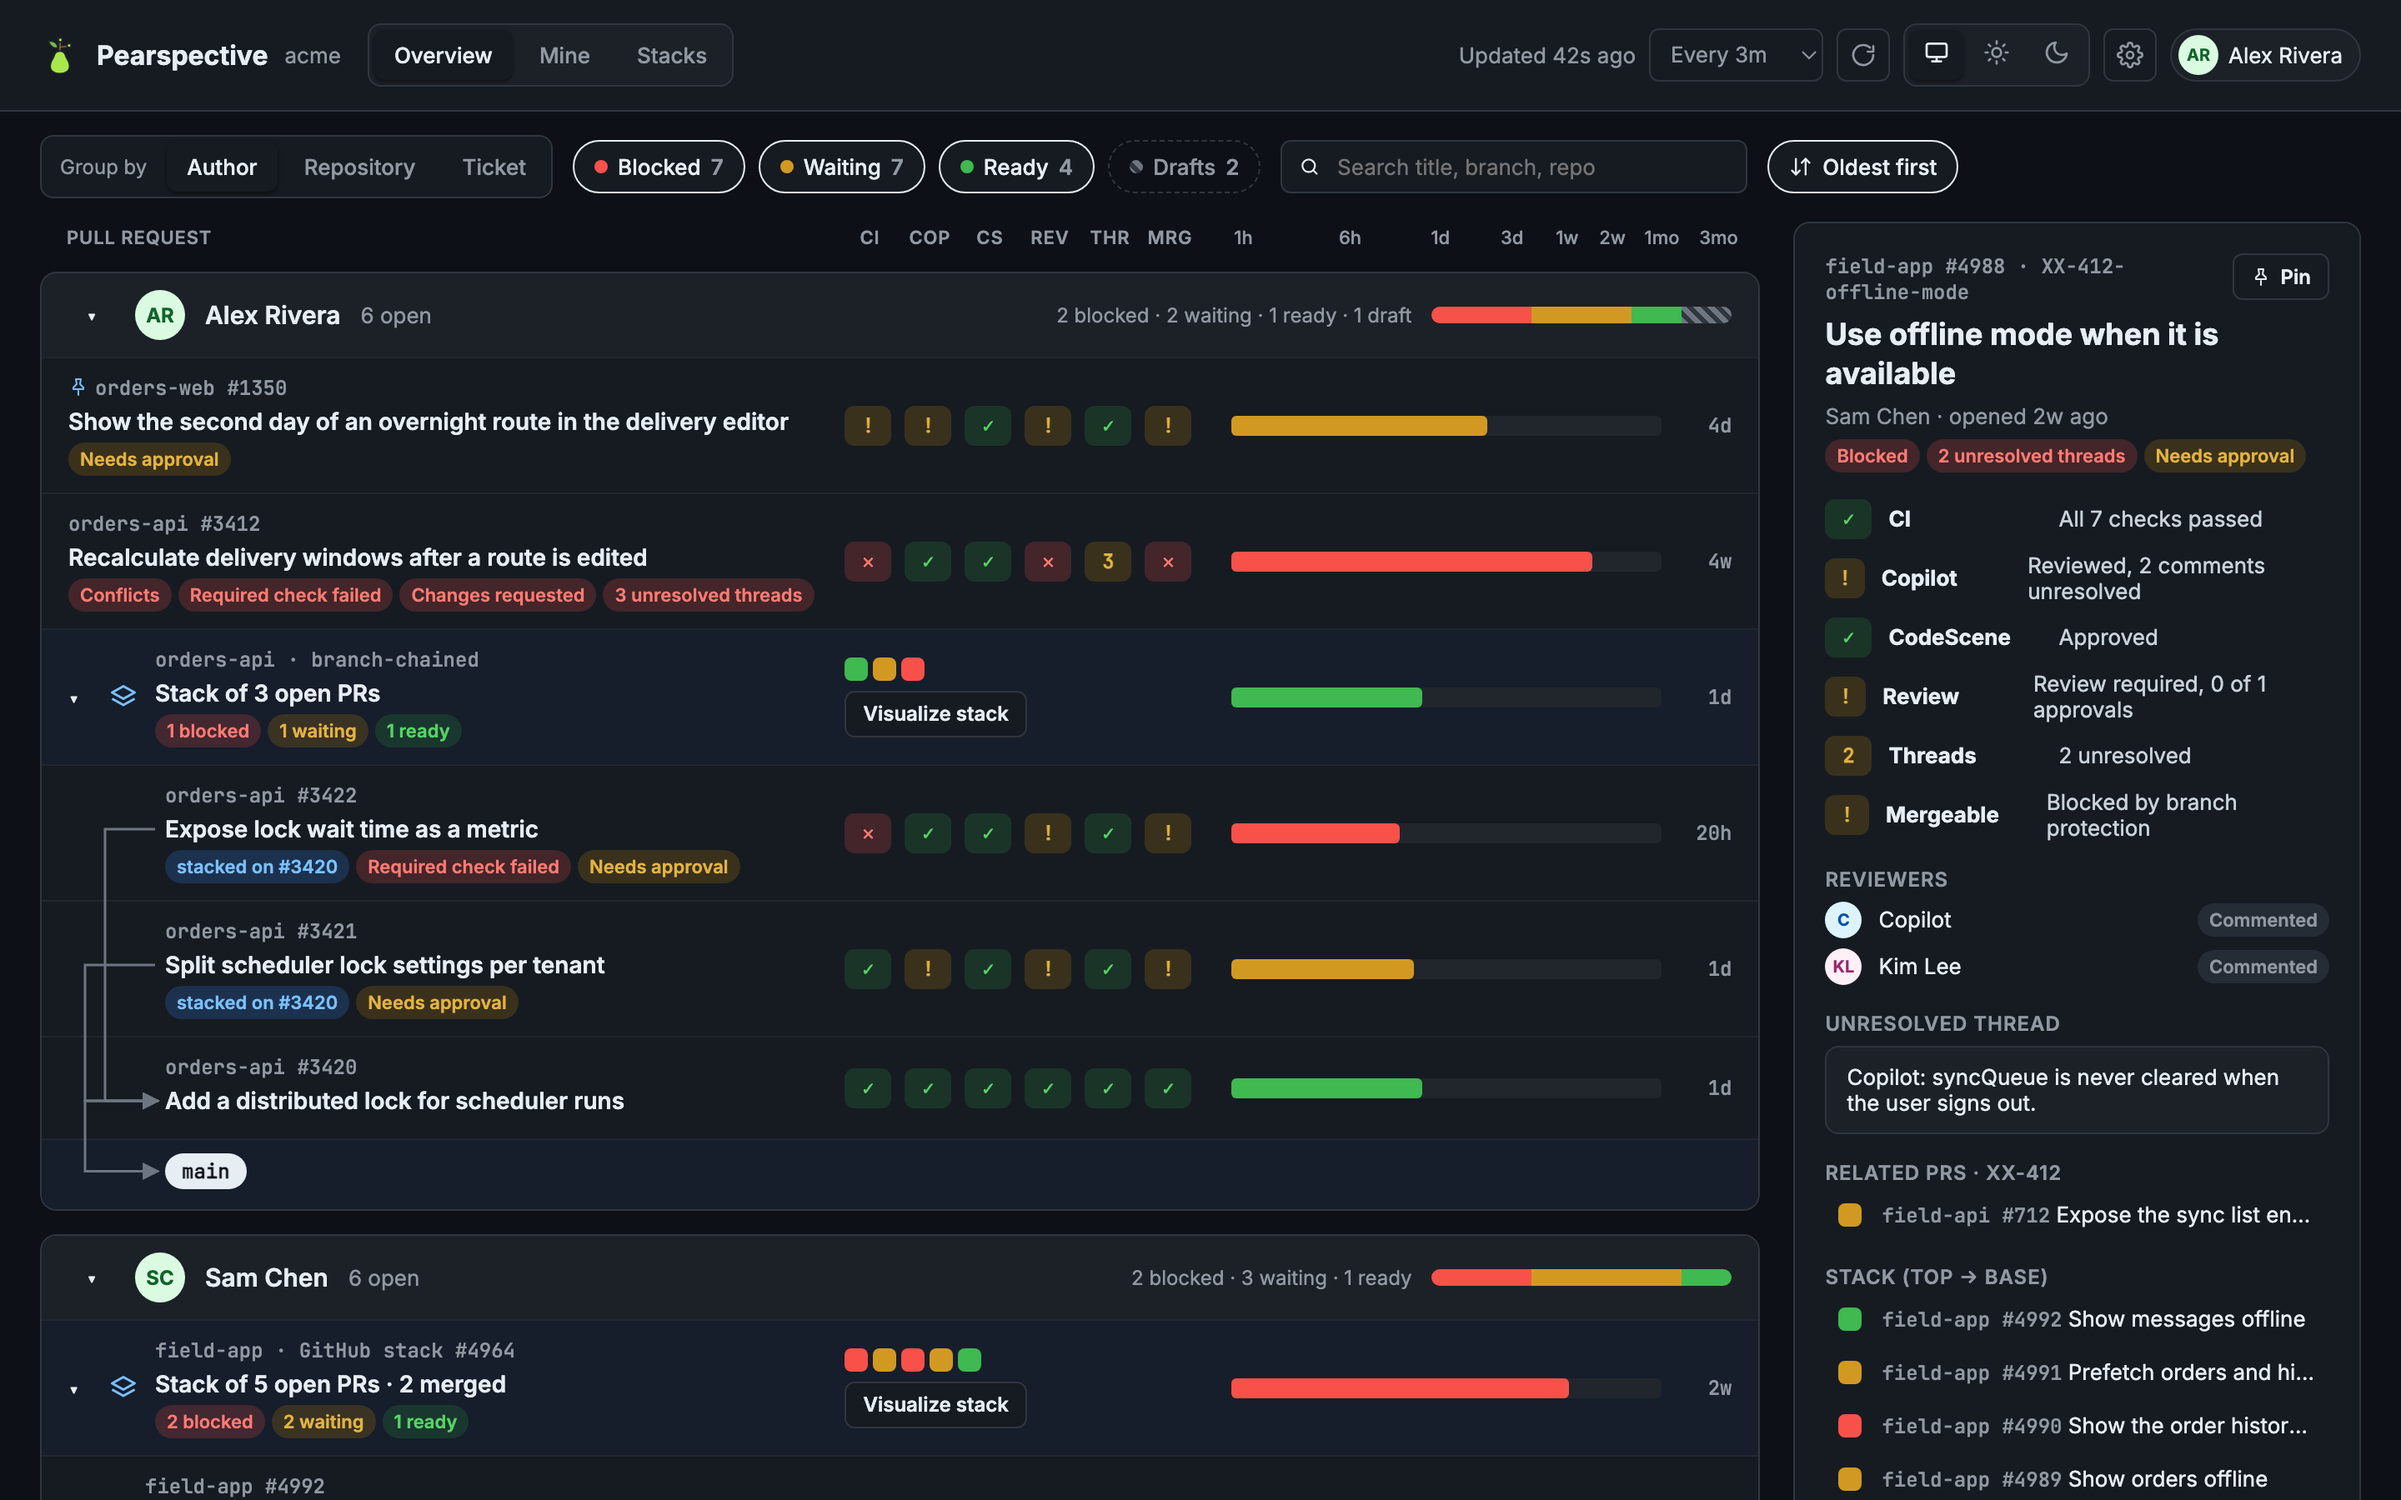
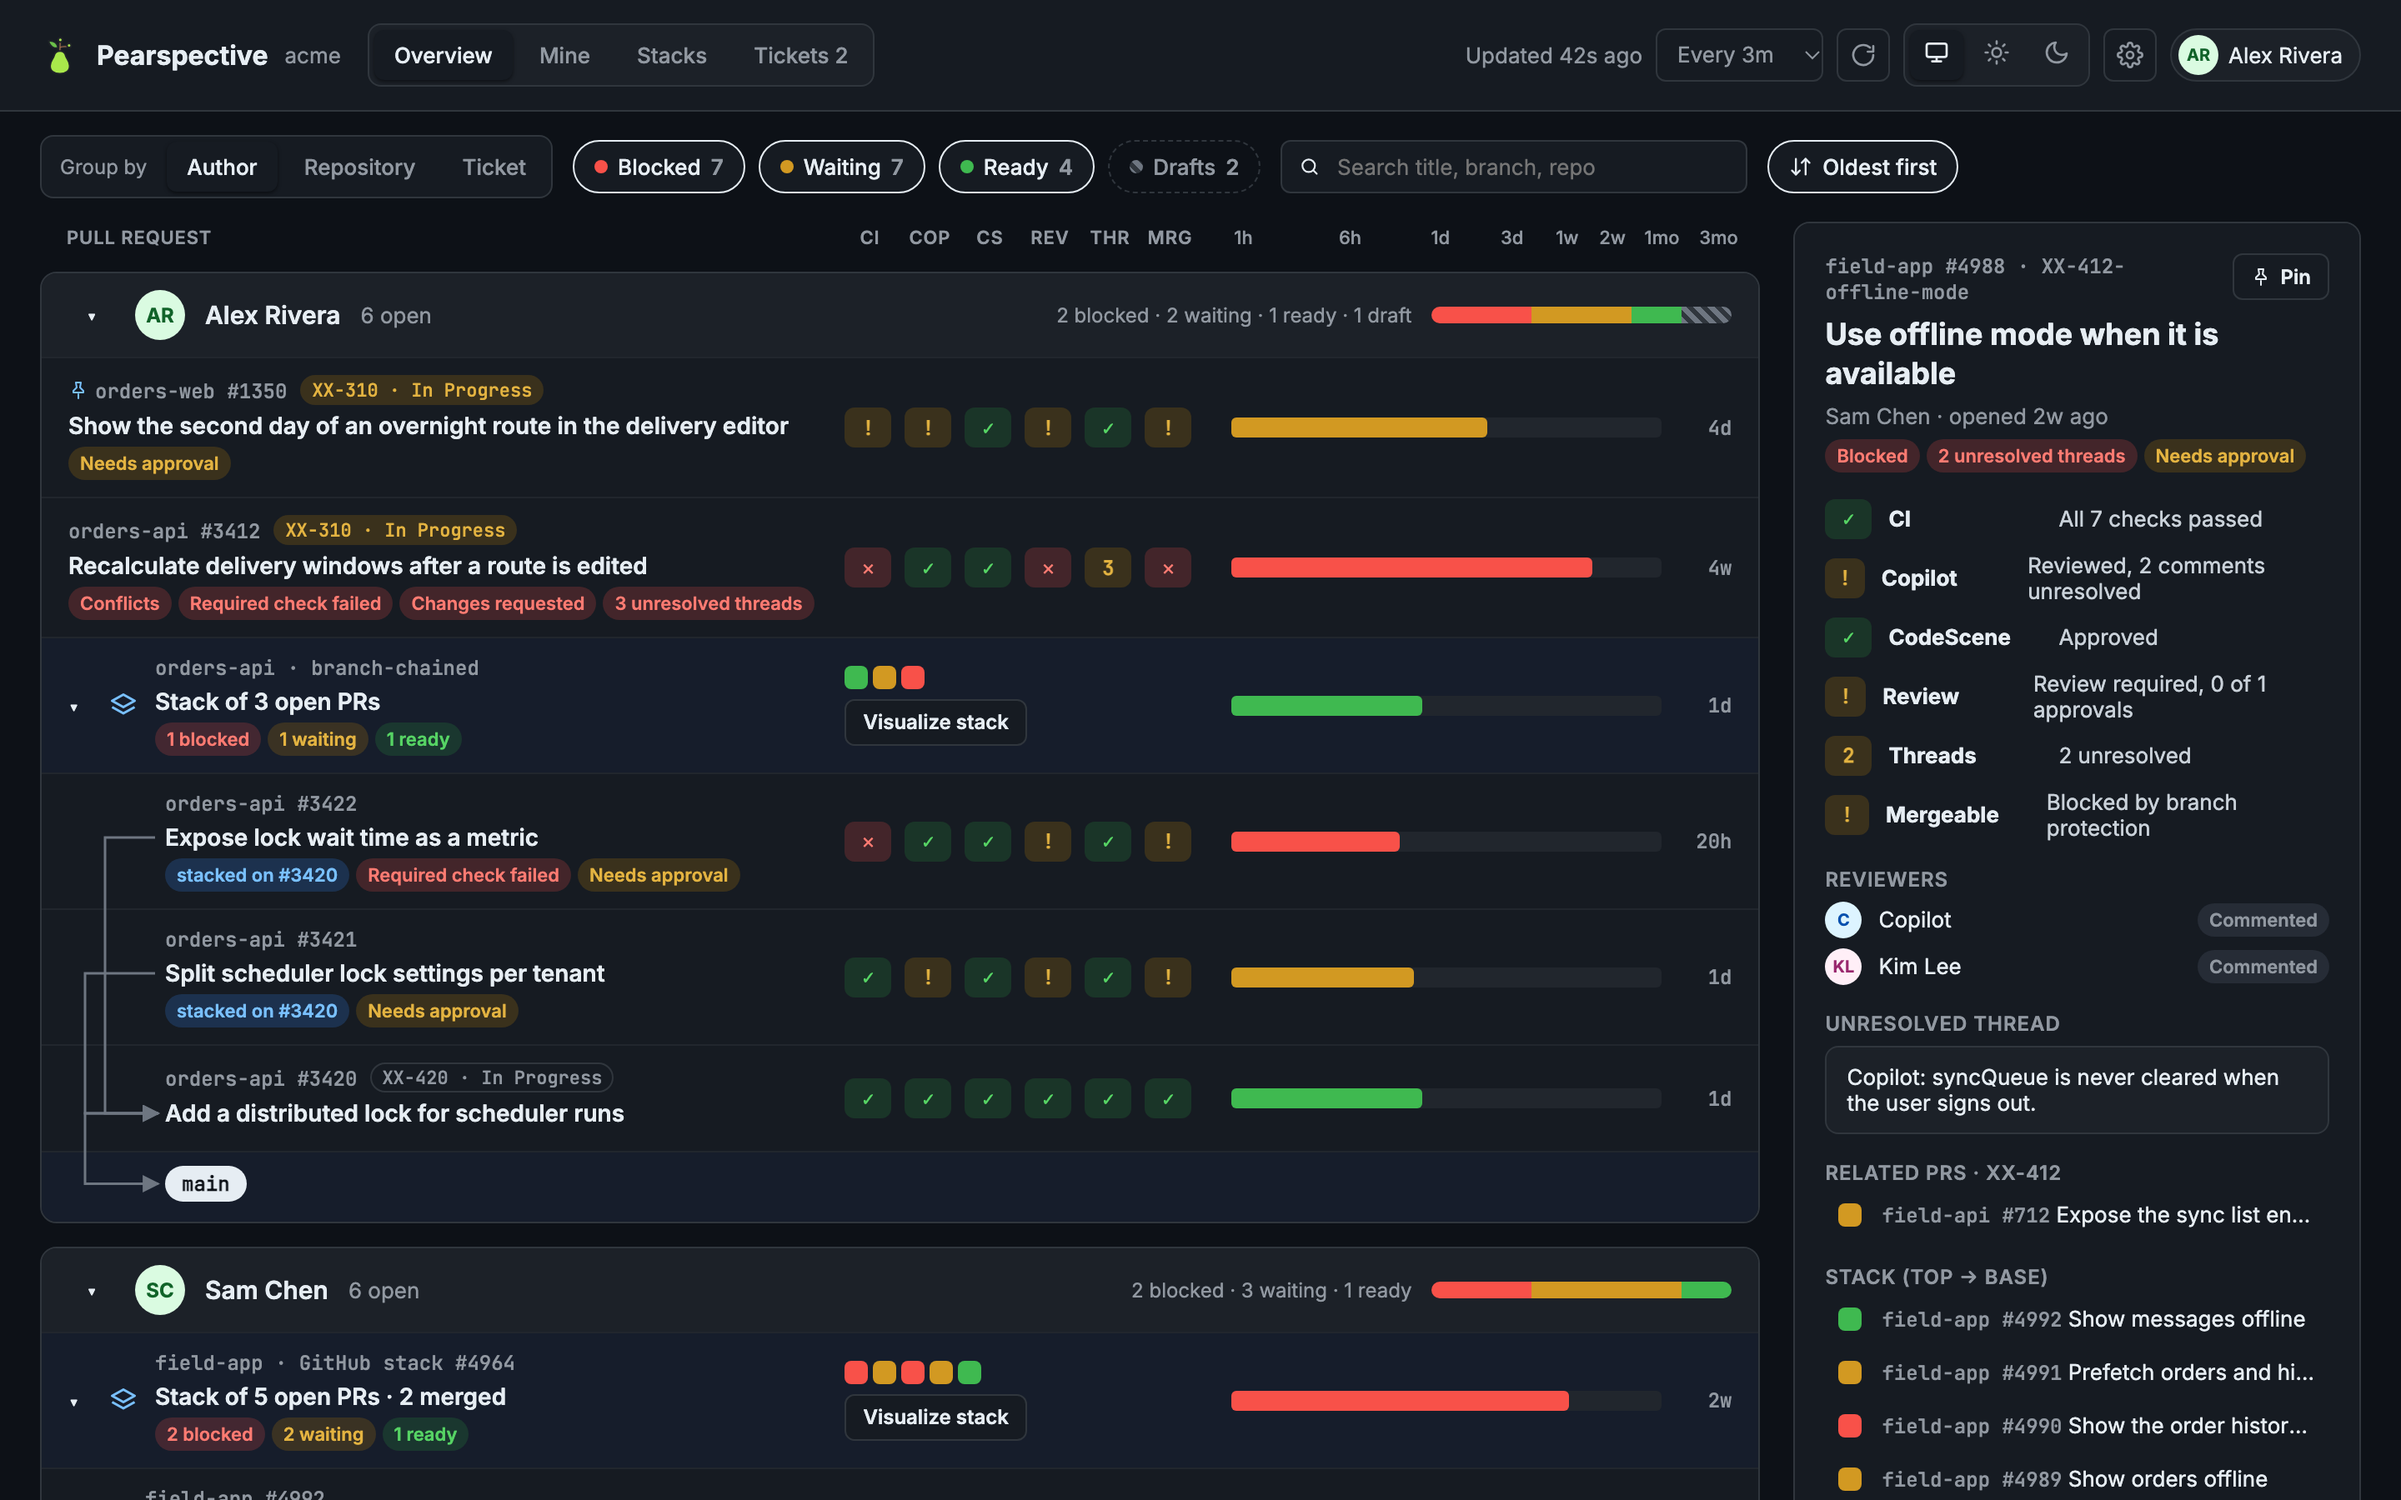
Document ticket status setup and show tickets in the mockup.

diff --git a/docs/mockup/overview-swimlanes.html b/docs/mockup/overview-swimlanes.html
@@ -99,6 +99,10 @@ main{flex:999 1 760px;min-width:0;overflow-x:auto}
 .stack-base{display:flex;align-items:center;gap:10px;padding:8px 16px 12px;border-top:1px solid var(--hair);background:var(--stackrow)}
 .base-pill{font:600 12px var(--mono);padding:3px 10px;border-radius:999px;background:var(--pill);color:var(--pill-fg)}
 .prtext{display:flex;flex-direction:column;gap:4px;min-width:0}
+.ticket-chip { display: inline-flex; align-items: center; margin-left: 8px; padding: 0 6px; height: 18px; border-radius: 999px; font-size: 11px; font-family: var(--mono); color: var(--muted); border: 1px solid var(--border); white-space: nowrap; vertical-align: 1px }
+.ticket-chip.v-mismatch, .ticket-chip.v-review { color: var(--a-fg); background: var(--a-bg); border-color: transparent }
+.ticket-chip.v-grace { border-style: dashed }
+.ticket-chip.v-unknown { opacity: .7 }
 .rn{font-size:12px;color:var(--muted);font-family:var(--mono)}
 .title{font-size:14px;font-weight:600;white-space:nowrap;overflow:hidden;text-overflow:ellipsis}
 .badges{display:flex;flex-wrap:wrap;gap:4px}
@@ -188,6 +192,14 @@ const STACKS = {
   s1: { native:true, number:4964, base:'main', merged:[{num:4985, title:'Add offline storage layer'},{num:4986, title:'Prefetch profile data'}] },
   s2: { native:false, base:'main', merged:[] }
 };
+// Fake ticket data (no real tickets).
+const TICKETS = {
+  'XX-412': { summary: 'Use offline mode when it is available', status: 'In Review', verdict: 'ok', reason: 'PR opened 2w ago; ticket is In Review.' },
+  'XX-310': { summary: 'Recalculate delivery windows', status: 'In Progress', verdict: 'mismatch', reason: 'PR opened 4w ago; ticket is In Progress (expected In Review).', expected: 'In Review' },
+  'XX-441': { summary: 'Map absence codes from the HR export', status: 'In Review', verdict: 'mismatch', reason: 'PR merged 8h ago; ticket is In Review (expected Ready for Test or Done).', expected: 'Ready for Test or Done' },
+  'XX-420': { summary: 'Add a distributed lock for scheduler runs', status: 'In Progress', verdict: 'ok', reason: 'PR opened 1d ago; ticket is In Progress.' },
+};
+const ticketChip = p => { const t = p.ticket && TICKETS[p.ticket]; return t ? `<span class="ticket-chip v-${t.verdict}" title="${esc(t.reason)}">${esc(p.ticket)} · ${esc(t.status)}</span>` : ''; };
 const ME = 'Alex Rivera';
 const ZOOM_KEY = /Mac|iPhone|iPad/.test(navigator.platform || navigator.userAgent) ? '⌘ Cmd' : 'Ctrl';
 const MINE = { requested:['s3','e1'], team:['j1','b2'] };
@@ -288,7 +300,7 @@ function prRow(p, stackTextX, column){
   const nodeAttrs = inStack ? ` data-node="${p.id}" data-parent="${p.parent || 'base'}" data-col="${column}"` : '';
   return `<div class="row${state.selected === p.id ? ' sel' : ''}" role="button" tabindex="0" data-act="pick" data-id="${p.id}"${nodeAttrs}>
     <span class="pr"${inStack ? ` style="padding-left:${stackTextX - 16}px"` : ''}>
-      <span class="prtext"><span class="rn">${pinMark(state.pinned[p.id])}${esc(p.repo)} #${p.num}</span><span class="title">${esc(p.title)}</span>
+      <span class="prtext"><span class="rn">${pinMark(state.pinned[p.id])}${esc(p.repo)} #${p.num}${ticketChip(p)}</span><span class="title">${esc(p.title)}</span>
       <span class="badges">${badgesOf(p).map(badgeHtml).join('')}</span></span></span>
     <span class="sigs">${sigHtml(p)}</span>
     ${ageHtml(p.h, p.cat)}
@@ -450,6 +462,16 @@ function drawerHtml(){
   </aside>`;
 }
 
+function ticketsHtml(){
+  const rows = Object.entries(TICKETS).filter(([, t]) => t.verdict === 'mismatch').map(([key, t]) => `
+    <div class="row" style="grid-template-columns:minmax(0,1fr) minmax(0,1fr)">
+      <span class="prtext"><span class="rn">${esc(key)} · Story</span><span class="title">${esc(t.summary)}</span>
+      <span class="badges"><span class="ticket-chip v-mismatch" style="margin-left:0">${esc(t.status)}</span><span class="muted small">expected ${esc(t.expected)}</span></span>
+      <span class="muted small">${esc(t.reason)}</span></span>
+      <span class="muted small">${ALL.filter(p => p.ticket === key).map(p => `${esc(p.repo)} #${p.num} ${esc(p.title)}`).join('<br>') || '1 merged PR'}</span>
+    </div>`).join('');
+  return `<div class="layout"><main><section class="lane"><div class="lane-h"><span class="lane-title">Mismatches</span><span class="muted">2</span></div>${rows}</section></main></div>`;
+}
 function stacksHtml(){
   return `<div class="stacks">${Object.keys(STACKS).map(id => {
     const ms = stackMembers(id, ALL), st = STACKS[id];
@@ -466,7 +488,7 @@ function render(){
   document.getElementById('app').innerHTML = `
   <header>
     <div class="brand"><svg width="24" height="24" viewBox="70 80 1080 1080" aria-hidden="true"><g stroke="#1f2328" stroke-linecap="round" stroke-linejoin="round"><path d="M606 540 C606 470 612 420 614 230 M614 420 C626 395 660 392 720 392 L790 392 C815 392 835 382 852 362" fill="none" stroke-width="96"/><path d="M560 430 C470 450 330 410 300 238 C455 222 548 300 560 430 Z" fill="#6cc04a" stroke-width="44"/><path d="M606 540 C606 470 612 420 614 230 M614 420 C626 395 660 392 720 392 L790 392 C815 392 835 382 852 362" fill="none" stroke="#9b6a4c" stroke-width="30"/><circle cx="618" cy="212" r="57" fill="#a9e84b" stroke-width="44"/><circle cx="855" cy="362" r="57" fill="#a9e84b" stroke-width="44"/><path d="M610 515 C690 515 745 560 765 640 C785 720 865 770 870 905 C878 1050 760 1124 606 1124 C452 1124 334 1050 342 905 C348 770 428 720 448 640 C468 560 530 515 610 515 Z" fill="#a9e84b" stroke-width="44"/></g></svg><b>Pearspective</b><span>acme</span></div>
-    <nav class="segs" aria-label="Views">${seg(state.tab === 'overview','tab','overview','Overview')}${seg(state.tab === 'mine','tab','mine','Mine')}${seg(state.tab === 'stacks','tab','stacks','Stacks')}</nav>
+    <nav class="segs" aria-label="Views">${seg(state.tab === 'overview','tab','overview','Overview')}${seg(state.tab === 'mine','tab','mine','Mine')}${seg(state.tab === 'stacks','tab','stacks','Stacks')}${seg(state.tab === 'tickets','tab','tickets','Tickets 2')}</nav>
     <span class="grow"></span>
     <div class="hdr-right">
       <span>${state.interval === 'off' ? 'Auto-refresh paused · updated 6m ago' : 'Updated 42s ago'}</span>
@@ -477,7 +499,7 @@ function render(){
       <span class="who"><span class="av" style="width:24px;height:24px;font-size:10px;${avatar(ME)}">${initials(ME)}</span>${esc(ME)}</span>
     </div>
   </header>
-  ${state.tab === 'stacks' ? '<div class="toolbar"><span class="muted">Every stack in the selected repos. Hold ' + ZOOM_KEY + ' and scroll to zoom, drag to pan, click a PR to open it.</span></div>' + stacksHtml() : `
+  ${state.tab === 'tickets' ? '<div class="toolbar"><span class="muted">Tickets referenced by open and recently closed pull requests, checked against their PRs.</span></div>' + ticketsHtml() : state.tab === 'stacks' ? '<div class="toolbar"><span class="muted">Every stack in the selected repos. Hold ' + ZOOM_KEY + ' and scroll to zoom, drag to pan, click a PR to open it.</span></div>' + stacksHtml() : `
   <section class="toolbar">
     ${state.tab === 'overview' ? `<div class="segs" style="background:var(--surface)"><span class="lbl">Group by</span>${seg(state.groupBy === 'author','group','author','Author')}${seg(state.groupBy === 'repo','group','repo','Repository')}${seg(state.groupBy === 'ticket','group','ticket','Ticket')}</div>` : ''}
     <div style="display:flex;flex-wrap:wrap;gap:8px" role="group" aria-label="Status filter">${['blocked','waiting','ready','draft'].map(k => `<button class="chip${state.show[k] ? '' : ' off'}" aria-pressed="${state.show[k]}" data-act="chip" data-val="${k}"><span class="d${k === 'draft' ? ' hatch' : ''}" style="${k === 'draft' ? '' : 'background:' + CAT[k].c}"></span>${{blocked:'Blocked', waiting:'Waiting', ready:'Ready', draft:'Drafts'}[k]}<span class="n">${gCounts[k]}</span></button>`).join('')}</div>

diff --git a/README.md b/README.md
@@ -28,6 +28,7 @@ Pearspective is a small local dashboard that answers them on one screen. It read
 - **Pinning.** Pin a PR from its detail panel and it stays at the top of its lane, whatever the sort order. Pins are saved in `config.json`.
 - **Detail panel** that stays in view while you scroll: failing checks, reviewers, unresolved threads, related PRs for the same ticket, and the stack the PR belongs to.
 - **Ticket links.** Jira-style keys in branch names or titles (`XX-123`) become links when an issue tracker is configured.
+- **Ticket status (optional).** With [jira-cli](https://github.com/ankitpokhrel/jira-cli) set up, each PR shows its ticket's status, and a **Tickets** tab lists tickets whose status disagrees with their PRs, for example a merged PR whose ticket is still *In Review*.
 - **Light and dark themes**, following the system by default.
 
 ## Requirements
@@ -72,7 +73,38 @@ To change the repositories later, use the settings button in the header, or run 
 | `reviewerClasses` | Which bot logins count as AI review and code analysis. A trailing `*` matches a prefix. |
 | `refreshIntervalSec` | `0` (off), `180`, `300`, `600`, `900` or `1800`. Also editable from the header. |
 | `pinned` | IDs of pinned PRs. Managed from the detail panel. |
-| `issueTracker` | Optional, e.g. `{ "provider": "jira", "baseUrl": "https://jira.example.com" }`, to make ticket keys clickable. |
+| `issueTracker` | Optional. Ticket links, and with jira-cli the ticket status and mismatch checks; see [Ticket status](#ticket-status-optional). |
+
+## Ticket status (optional)
+
+Pearspective reads tickets through [jira-cli](https://github.com/ankitpokhrel/jira-cli), which works with Jira Cloud and with self-hosted Jira Server / Data Center. Pearspective never sees your token; jira-cli handles authentication.
+
+1. Install jira-cli and give it a token. For Server / Data Center, create a personal access token in your Jira profile. jira-cli looks for the token in `JIRA_API_TOKEN`, then in `~/.netrc`, then in the keychain. Because Pearspective's server runs jira-cli itself, a `.netrc` entry is the most reliable choice:
+
+   ```
+   machine jira.example.com
+     login jdoe
+     password <your token>
+   ```
+
+   `machine` must be the bare host (no `https://`, no path). `login` must equal the `login:` that `jira init` writes to `~/.config/.jira/.config.yml`. With a personal access token, `jira init` replaces the login you type (say, your email) with your Jira username, so check that file afterwards and add a second `.netrc` entry with the same token if they differ.
+2. Run `jira init` (installation type **Local** and auth type **bearer** for a personal access token) and check that `jira me` prints your username.
+3. Add an `issueTracker` block to `config.json` and restart the server:
+
+   ```json
+   "issueTracker": {
+     "provider": "jira",
+     "baseUrl": "https://jira.example.com",
+     "expectedStatuses": { "open": ["In Review"], "merged": ["Ready for Test", "Done"] }
+   }
+   ```
+
+How tickets are judged:
+- Keys are taken from branch names and titles of open PRs and of PRs merged or closed in the last `closedLookbackDays` (default 14) in your repositories.
+- PRs into branches matching `ignoreBases` (default `["release/*"]`) do not count.
+- The least-finished PR decides what the ticket should be: a draft or open PR expects work in progress, merged PRs expect anything but *To Do*, and PRs closed without merging ask a human to look.
+- Without `expectedStatuses`, Jira's built-in categories (To Do / In Progress / Done) are used. Listing status names per PR state (`draft`, `open`, `merged`, `abandoned`) makes the check precise, for example to catch a merged PR whose ticket is still *In Review*.
+- A change is not flagged until it has lasted `graceMinutes` (default 30). Tickets are refreshed every `refreshIntervalSec` (default 600) and only while a dashboard tab is visible.
 
 ## How it uses the GitHub API
 
